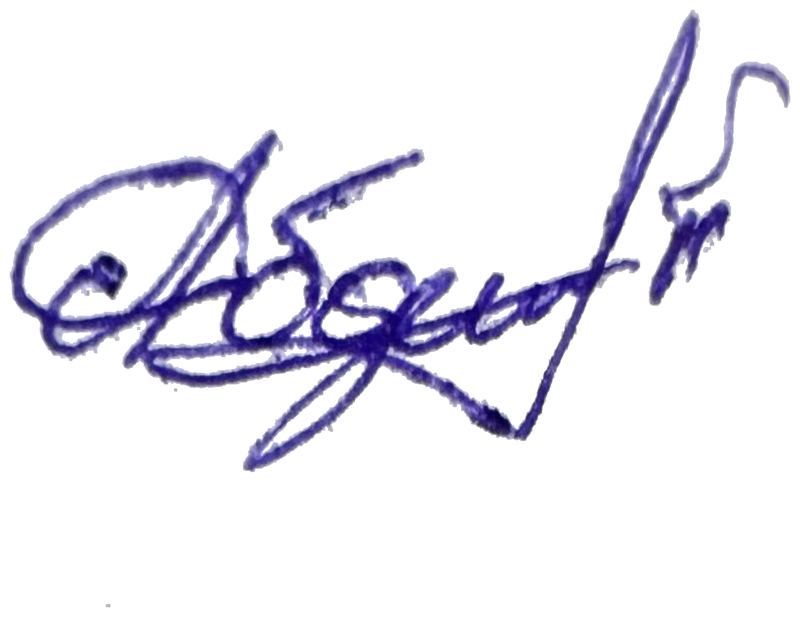
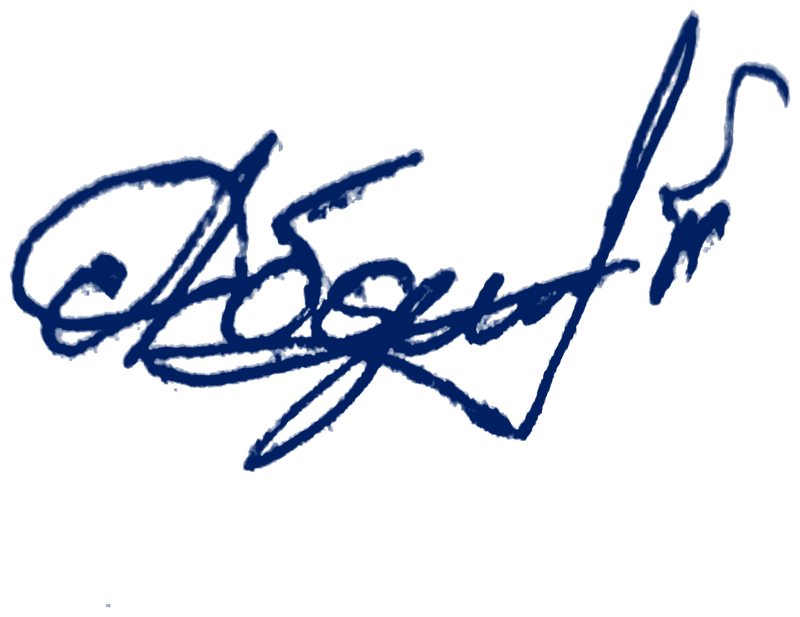
Match signature ink color to stamp navy and lower its position
Recolored the signature PNG to the stamp's exact mean ink color (RGB 0,32,98)
keeping alpha texture; moved it 3.5mm lower so strokes cross the signature
line naturally.

Claude-Session: https://claude.ai/code/session_01KkXbjSxTfXH4AWEhLfnRj5

Changed region(s): [[0.0, 0.0, 1.0, 0.7699]]

diff --git a/src/pages/CertificatePage.tsx b/src/pages/CertificatePage.tsx
@@ -193,7 +193,7 @@ export default function CertificatePage() {
                   alt="Қолтаңба"
                   style={{
                     width: "24mm", display: "block",
-                    marginLeft: "12mm", marginBottom: "-5.5mm",
+                    marginLeft: "12mm", marginBottom: "-9mm",
                     position: "relative", zIndex: 1,
                   }}
                 />